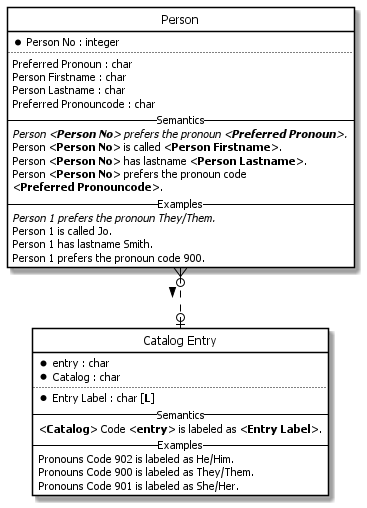
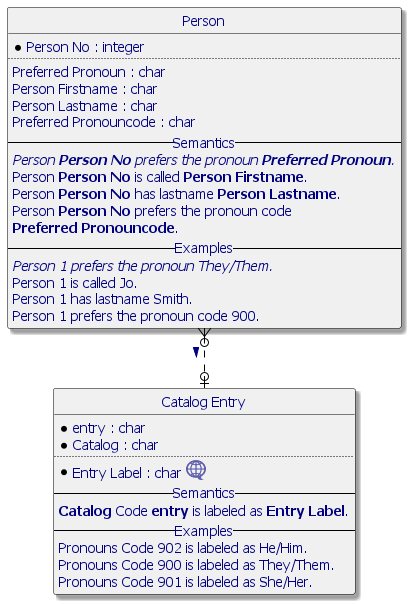
Upgraded to CaseTalk 12.6 and include the new EXP diagram

Changed region(s): [[0.0, 0.0, 0.9891, 1.0]]

diff --git a/EN/Catalog Example/README.md b/EN/Catalog Example/README.md
@@ -1,5 +1,5 @@
 # ![CaseTalk Logo](https://www.casetalk.com/images/icons/casetalk.png) Catalog Entry.prj
-*Project created with CaseTalk v12.4 Build 2.28837.*
+*Project created with CaseTalk v12.6 Build 0.30996.*
 
 * ![Project](https://www.casetalk.com/images/icons/prj.png) Catalog Entry.prj
   * ![Repository](https://www.casetalk.com/images/icons/ig.png) catalog entry.ig
@@ -12,3 +12,5 @@
 ![Diagram employee.igd /UML](employee.uml.png)
 ## employee.igd /MAP
 ![Diagram employee.igd /MAP](employee.map.png)
+## employee.igd /EXP
+![Diagram employee.igd /EXP](employee.exp.png)
